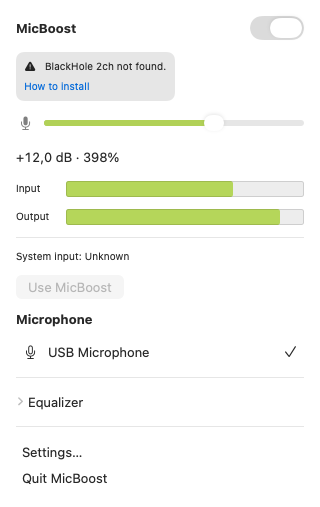
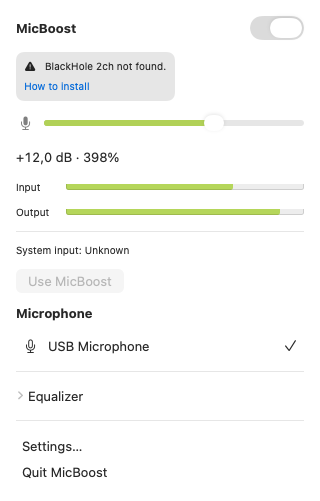
Match level meter thickness to the gain slider track

diff --git a/Sources/MicBoostUI/LevelMeterView.swift b/Sources/MicBoostUI/LevelMeterView.swift
@@ -22,6 +22,6 @@ import SwiftUI
     }
 
     func sizeThatFits(_ proposal: ProposedViewSize, nsView: NSLevelIndicator, context: Context) -> CGSize? {
-        CGSize(width: proposal.width ?? 100, height: nsView.intrinsicContentSize.height)
+        CGSize(width: proposal.width ?? 100, height: 6)
     }
 }

diff --git a/docs/ui.md b/docs/ui.md
@@ -39,7 +39,7 @@ Conteúdo, de cima para baixo (SwiftUI, `PanelView`):
    - **Ligar:** reconstrói o motor com a fonte e os ajustes persistidos e reaplica a política de entrada padrão.
    - O estado persiste (`processingEnabled`), e a troca nunca fecha o painel.
 2. **Ganho:** botão de mute com o ícone `mic.fill`/`mic.slash.fill` centralizado em uma área fixa de 20 × 20 pt para não deslocar o slider ao alternar, `Slider` de ganho de −12 a +24 dB e rótulo `+12,0 dB · 398%`. O valor é editável: clicar no rótulo abre um campo numérico em dB. O selo "Limitador ativo" (pílula discreta) aparece ao lado do valor de ganho durante a proteção de pico; sua área permanece reservada e o selo fica oculto para acessibilidade quando inativo, sem alterar a altura do painel ou deslocar controles.
-3. **Medidores:** duas barras finas horizontais, "Entrada" e "Saída", em dBFS de −60 a 0, sempre na cor de destaque do sistema, sem flash vermelho nem aviso textual de saturação.
+3. **Medidores:** duas barras horizontais de 6 pt de espessura (como a trilha do slider de ganho), "Entrada" e "Saída", em dBFS de −60 a 0, sempre na cor de destaque do sistema, sem flash vermelho nem aviso textual de saturação.
 4. **Entrada do sistema:** apenas o estado da entrada padrão; a fonte selecionada é indicada pela marcação na lista de microfones, sem uma linha adicional de caminho do áudio:
    - ok: "Entrada do sistema: MicBoost" com marcação;
    - divergência: "Entrada do sistema: <nome>" + botão "Usar MicBoost".

diff --git a/README.md b/README.md
@@ -69,7 +69,8 @@ Available today:
   lid closed, for example — produces silence in BlackHole, not noise.
 
 - **Standard macOS menu surface**, with system-managed appearance and dismissal, without a popover arrow.
-- **Level meters** refresh about 20 times per second, with gradual peak decay. Native level
+- **Slim level meters**, matching the gain slider track, refresh about 20 times per second
+  with gradual peak decay. Native level
   indicators show each new peak directly; the stable **Limiter active** indicator shows
   peak protection. Their scale ends at 0 dBFS, so the protected
   −1 dBFS output reaches about 98.3% of the bar. This visual decay does not delay the audio.

diff --git a/docs/testing.md b/docs/testing.md
@@ -200,3 +200,7 @@ para os dois controles: numa captura solicitada 100 ms depois do degrau,
 já preenchia toda a faixa. O painel usa o indicador de nível nativo para não
 interpolar a apresentação dos picos. A escala foi conferida em 0 dBFS (100%) e
 −1 dBFS (98,33%), com clamp somente fora de −60…0 dBFS.
+
+Na captura clara renderizada a 1×, a trilha colorida do slider de ganho e as duas
+barras de nível medem 6 pixels de altura (6 pt). O indicador de nível mantém a
+aplicação direta do valor, sem interpolação de progresso.
